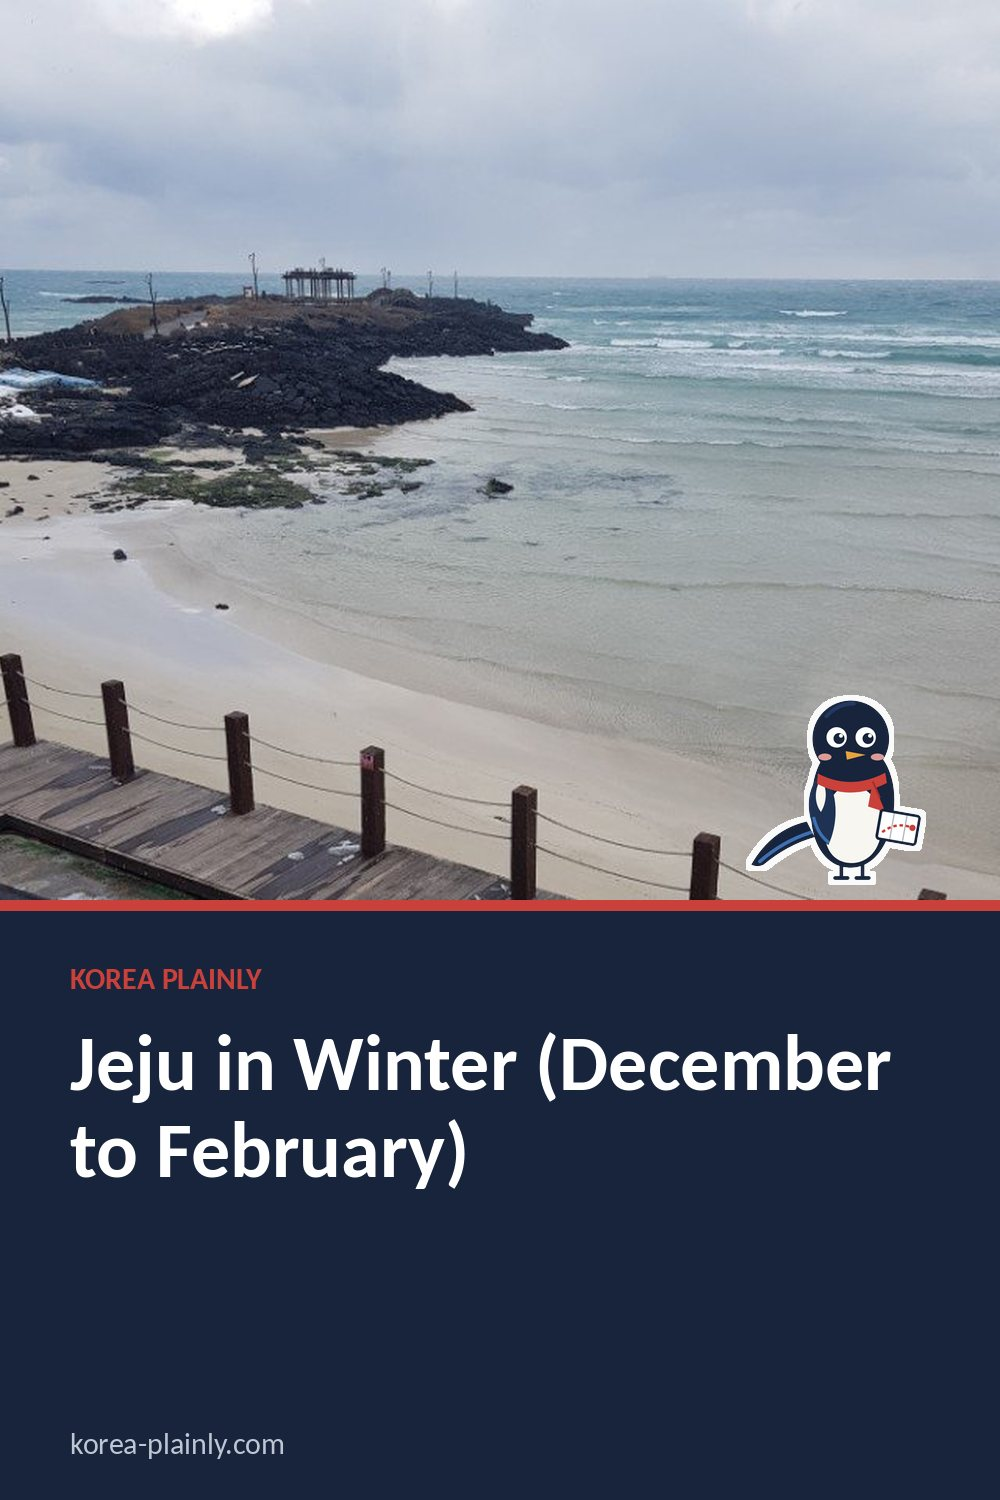
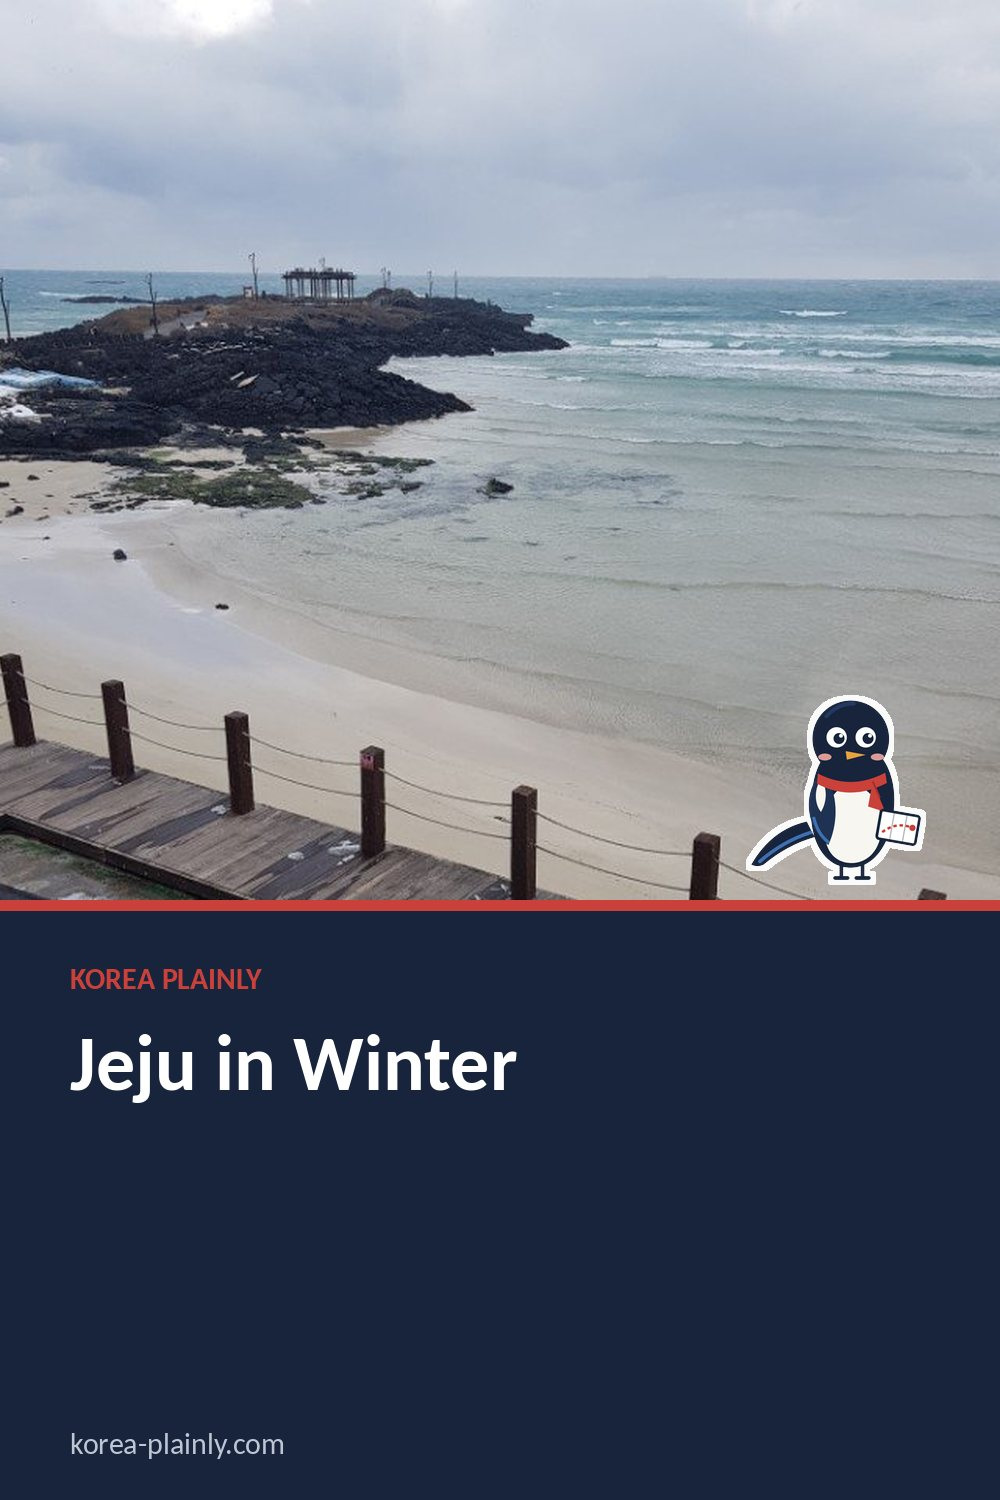
Jeju in winter: retitle for December/January/February weather, month-by-month weather (KMA 1991-2020 normals), February blossoms and Seollal 2027, FAQs
Claude-Session: https://claude.ai/code/session_01MMQnqEDa4asGH4Jb6VramN

Changed region(s): [[0.062, 0.736, 0.465, 0.7973], [0.527, 0.6747, 0.899, 0.736]]

diff --git a/jeju-in-winter.html b/jeju-in-winter.html
@@ -11,11 +11,11 @@
 >
 
 <link rel="stylesheet" href="style.css?v=20261015-1">
-<title>Jeju in Winter (December to February): Tangerines, Camellias, Snow and Tips with Kids</title>
+<title>Jeju in Winter: December, January and February Weather, Tangerines and Camellias</title>
 
 <meta
   name="description"
-  content="Jeju in December, January and February: weather and wind, tangerine picking, camellias, snowy Hallasan hikes, tips with kids, driving and flight delays."
+  content="Jeju weather in December, January and February: how mild and windy it is, plus tangerine picking, camellias, snowy Hallasan and tips with kids."
 >
 <link
   rel="canonical"
@@ -29,12 +29,12 @@
 
 <meta
   property="og:title"
-  content="Jeju in Winter (December to February): Tangerines, Camellias, Snow and Tips with Kids"
+  content="Jeju in Winter: December, January and February Weather, Tangerines and Camellias"
 >
 
 <meta
   property="og:description"
-  content="Jeju in December, January and February: weather and wind, tangerine picking, camellias, snowy Hallasan hikes, tips with kids, driving and flight delays."
+  content="Jeju weather in December, January and February: how mild and windy it is, plus tangerine picking, camellias, snowy Hallasan and tips with kids."
 >
 
 <meta
@@ -59,12 +59,12 @@
 
 <meta
   name="twitter:title"
-  content="Jeju in Winter (December to February): Tangerines, Camellias, Snow and Tips with Kids"
+  content="Jeju in Winter: December, January and February Weather, Tangerines and Camellias"
 >
 
 <meta
   name="twitter:description"
-  content="Jeju in December, January and February: weather and wind, tangerine picking, camellias, snowy Hallasan hikes, tips with kids, driving and flight delays."
+  content="Jeju weather in December, January and February: how mild and windy it is, plus tangerine picking, camellias, snowy Hallasan and tips with kids."
 >
 
 <meta
@@ -247,9 +247,9 @@ footer {
 <link rel="stylesheet" href="article.css?v=4">
 <link rel="stylesheet" href="https://fonts.googleapis.com/css2?family=DM+Sans:wght@400;500;600;700&family=Playfair+Display:ital,wght@0,600;1,600&display=swap">
 <link rel="icon" href="/favicon.svg" type="image/svg+xml">
-<script type="application/ld+json" id="kp-faq-ld">{"@context": "https://schema.org", "@type": "FAQPage", "mainEntity": [{"@type": "Question", "name": "Is Jeju worth visiting in winter?", "acceptedAnswer": {"@type": "Answer", "text": "Yes, if you like quiet coastlines, tangerine picking, camellias and snowy mountain views. Just expect wind, short days and the chance of weather delays."}}, {"@type": "Question", "name": "Is Jeju good in December with kids?", "acceptedAnswer": {"@type": "Answer", "text": "Yes, as long as you dress them for the wind and keep plans flexible. Tangerine picking, aquariums, museums and short coastal walks work well, and the island is quieter than in summer. Leave slack around flights in case of wind delays."}}, {"@type": "Question", "name": "Does it snow in Jeju?", "acceptedAnswer": {"@type": "Answer", "text": "Snow rarely settles on the coast, but Hallasan and the higher roads often have heavy snow from December to March."}}, {"@type": "Question", "name": "Do I need a reservation to hike Hallasan in winter?", "acceptedAnswer": {"@type": "Answer", "text": "At the time of writing, a free reservation is needed for the summit sections of the Seongpanak and Gwaneumsa trails. Check the official Hallasan reservation website before your trip."}}, {"@type": "Question", "name": "When is tangerine season in Jeju?", "acceptedAnswer": {"@type": "Answer", "text": "The main harvest usually runs from about November into January, with other citrus varieties later in winter."}}, {"@type": "Question", "name": "Is it safe to drive in Jeju in winter?", "acceptedAnswer": {"@type": "Answer", "text": "The coastal roads are usually fine, but mountain roads can ice over or close in snow. Ask your rental company about winter equipment, or use buses on snowy days."}}]}</script>
-<script type="application/ld+json" id="kp-article-ld">{"@context": "https://schema.org", "@type": "Article", "headline": "Jeju in Winter (December to February): Tangerines, Camellias, Snow and Tips with Kids", "description": "Jeju in December, January and February: weather and wind, tangerine picking, camellias, snowy Hallasan hikes, tips with kids, driving and flight delays.", "image": ["https://korea-plainly.com/photo-own-jeju-hamdeok-winter.jpg"], "datePublished": "2026-10-17", "dateModified": "2026-10-30", "author": {"@type": "Person", "name": "Jungsuk Kim", "url": "https://korea-plainly.com/about.html#author"}, "publisher": {"@type": "Organization", "name": "Korea Plainly", "url": "https://korea-plainly.com/"}, "mainEntityOfPage": "https://korea-plainly.com/jeju-in-winter.html"}</script>
-<script type="application/ld+json" id="kp-breadcrumb-ld">{"@context": "https://schema.org", "@type": "BreadcrumbList", "itemListElement": [{"@type": "ListItem", "position": 1, "name": "Home", "item": "https://korea-plainly.com/"}, {"@type": "ListItem", "position": 2, "name": "Guides", "item": "https://korea-plainly.com/guides.html"}, {"@type": "ListItem", "position": 3, "name": "Travel Basics", "item": "https://korea-plainly.com/guides.html?category=travel"}, {"@type": "ListItem", "position": 4, "name": "Jeju in Winter (December to February): Tangerines, Camellias, Snow and Tips with Kids", "item": "https://korea-plainly.com/jeju-in-winter.html"}]}</script>
+<script type="application/ld+json" id="kp-faq-ld">{"@context": "https://schema.org", "@type": "FAQPage", "mainEntity": [{"@type": "Question", "name": "Is Jeju worth visiting in winter?", "acceptedAnswer": {"@type": "Answer", "text": "Yes, if you like quiet coastlines, tangerine picking, camellias and snowy mountain views. Just expect wind, short days and the chance of weather delays."}}, {"@type": "Question", "name": "What is the weather like in Jeju in February?", "acceptedAnswer": {"@type": "Answer", "text": "Cool and often windy: daytime highs are typically about 10 to 12°C on the coast and nights around 4 to 5°C. Hallasan is usually still snowy, while early plum blossoms and rapeseed flowers can appear in the south and east."}}, {"@type": "Question", "name": "Is Jeju worth visiting in January?", "acceptedAnswer": {"@type": "Answer", "text": "Yes, if you want snowy Hallasan views, tangerines and quiet coastlines. It is the coldest and windiest month, with highs typically about 9 to 11°C on the coast, so pack a windproof jacket and keep plans flexible for flight delays."}}, {"@type": "Question", "name": "Is Jeju good in December with kids?", "acceptedAnswer": {"@type": "Answer", "text": "Yes, as long as you dress them for the wind and keep plans flexible. Tangerine picking, aquariums, museums and short coastal walks work well, and the island is quieter than in summer. Leave slack around flights in case of wind delays."}}, {"@type": "Question", "name": "Does it snow in Jeju?", "acceptedAnswer": {"@type": "Answer", "text": "Snow rarely settles on the coast, but Hallasan and the higher roads often have heavy snow from December to March."}}, {"@type": "Question", "name": "Do I need a reservation to hike Hallasan in winter?", "acceptedAnswer": {"@type": "Answer", "text": "At the time of writing, a free reservation is needed for the summit sections of the Seongpanak and Gwaneumsa trails. Check the official Hallasan reservation website before your trip."}}, {"@type": "Question", "name": "When is tangerine season in Jeju?", "acceptedAnswer": {"@type": "Answer", "text": "The main harvest usually runs from about November into January, with other citrus varieties later in winter."}}, {"@type": "Question", "name": "Is it safe to drive in Jeju in winter?", "acceptedAnswer": {"@type": "Answer", "text": "The coastal roads are usually fine, but mountain roads can ice over or close in snow. Ask your rental company about winter equipment, or use buses on snowy days."}}]}</script>
+<script type="application/ld+json" id="kp-article-ld">{"@context": "https://schema.org", "@type": "Article", "headline": "Jeju in Winter: December, January and February Weather, Tangerines and Camellias", "description": "Jeju weather in December, January and February: how mild and windy it is, plus tangerine picking, camellias, snowy Hallasan and tips with kids.", "image": ["https://korea-plainly.com/photo-own-jeju-hamdeok-winter.jpg"], "datePublished": "2026-10-17", "dateModified": "2026-11-10", "author": {"@type": "Person", "name": "Jungsuk Kim", "url": "https://korea-plainly.com/about.html#author"}, "publisher": {"@type": "Organization", "name": "Korea Plainly", "url": "https://korea-plainly.com/"}, "mainEntityOfPage": "https://korea-plainly.com/jeju-in-winter.html"}</script>
+<script type="application/ld+json" id="kp-breadcrumb-ld">{"@context": "https://schema.org", "@type": "BreadcrumbList", "itemListElement": [{"@type": "ListItem", "position": 1, "name": "Home", "item": "https://korea-plainly.com/"}, {"@type": "ListItem", "position": 2, "name": "Guides", "item": "https://korea-plainly.com/guides.html"}, {"@type": "ListItem", "position": 3, "name": "Travel Basics", "item": "https://korea-plainly.com/guides.html?category=travel"}, {"@type": "ListItem", "position": 4, "name": "Jeju in Winter: December, January and February Weather, Tangerines and Camellias", "item": "https://korea-plainly.com/jeju-in-winter.html"}]}</script>
 <meta property="article:published_time" content="2026-10-17">
 </head>
 
@@ -280,12 +280,12 @@ TRAVEL BASICS · SEASONAL
 </div>
 
 <h1>
-Jeju in Winter (December to February): Tangerines, Camellias, Snow and Tips with Kids
+Jeju in Winter: December, January and February Weather, Tangerines and Camellias
 </h1>
-<p class="kp-date" data-kp="date">By <a href="about.html#author">Jungsuk Kim</a>, Korea Plainly · Published <time datetime="2026-10-17">17 October 2026</time> · Updated <time datetime="2026-10-30">30 October 2026</time></p>
+<p class="kp-date" data-kp="date">By <a href="about.html#author">Jungsuk Kim</a>, Korea Plainly · Published <time datetime="2026-10-17">17 October 2026</time> · Updated <time datetime="2026-11-10">10 November 2026</time></p>
 
 <p class="dek">
-Jeju in December, January and February: weather and wind, tangerine picking, camellias, snowy Hallasan hikes, tips with kids, driving and flight delays.
+Jeju weather in December, January and February: how mild and windy it is, plus tangerine picking, camellias, snowy Hallasan and tips with kids.
 </p>
 
 <img
@@ -301,8 +301,15 @@ Jeju in December, January and February: weather and wind, tangerine picking, cam
 
 <nav class="kp-toc" data-kp="toc" aria-label="On this page"><p>On this page</p><ol><li><a href="#what-the-weather-is-like">What the weather is like</a></li><li><a href="#tangerine-season">Tangerine season</a></li><li><a href="#camellias-in-bloom">Camellias in bloom</a></li><li><a href="#snow-on-hallasan">Snow on Hallasan</a></li><li><a href="#getting-around-in-winter">Getting around in winter</a></li><li><a href="#flights-and-the-weather">Flights and the weather</a></li><li><a href="#jeju-in-december-with-kids">Jeju in December with kids</a></li><li><a href="#what-to-pack">What to pack</a></li><li><a href="#planning-your-trip">Planning your trip</a></li><li><a href="#faq">FAQ</a></li></ol></nav>
 <h2 id="what-the-weather-is-like">What the weather is like</h2>
-<p>Jeju is usually the mildest part of Korea in winter. On the coast, daytime temperatures from December to February are typically in single figures Celsius, a little above freezing at night, and snow rarely settles in Jeju City or Seogwipo. Seogwipo, on the south side of the island, is often slightly warmer than Jeju City in the north.</p>
+<p>Jeju is usually the mildest part of Korea in winter. On the coast, daytime highs from December to February are typically about 9 to 13°C, nights stay a few degrees above freezing, and snow rarely settles in Jeju City or Seogwipo. Seogwipo, on the south side of the island, is often slightly warmer than Jeju City in the north.</p>
 <p>The catch is the <strong>wind</strong>. Strong, cold winds off the sea make it feel much colder than the thermometer suggests, and it can be grey and showery for days. The higher you go, the colder it gets: the slopes of Hallasan regularly have deep snow from December into March. See our <a href="korea-weather-by-season.html">weather by season guide</a> for the rest of the country.</p>
+<p>The figures below are rough long-term averages from the Korea Meteorological Administration (1991-2020 normals) for Jeju City on the north coast and Seogwipo on the south coast. Any given week can be warmer, colder or much windier.</p>
+<h3>Jeju in December</h3>
+<p>December starts like late autumn and ends like winter. Daytime highs are typically about 11°C in Jeju City and about 13°C in Seogwipo, with nights around 5 to 6°C. The northwest wind picks up through the month, and Jeju City sees grey, showery days more often than the south side. Days are at their shortest, with only about ten hours of daylight around the solstice and sunset at roughly half past five, so plan outdoor sights for the morning and early afternoon. Snow often arrives on Hallasan during the month, while the coast usually stays clear.</p>
+<h3>Jeju in January</h3>
+<p>January is the coldest month. Highs are typically about 9°C in Jeju City and about 11°C in Seogwipo, with nights around 3 to 4°C, but strong wind can make it feel close to freezing. This is the month most likely to bring snow or sleet showers, and on a few days snow can briefly settle near the coast; the mountain roads and Hallasan trails are at their snowiest. If you want snowy Hallasan views or quiet beaches, January is a good choice; if you mainly want warm, calm weather, it is the least reliable month.</p>
+<h3>Jeju in February</h3>
+<p>February is still winter, with highs typically about 10°C in Jeju City and about 12°C in Seogwipo and nights around 4 to 5°C, but the days are noticeably longer, with sunset after six by the end of the month. Spring starts early here: plum blossoms and the first yellow rapeseed (canola) flowers can appear on the south and east sides of the island in February, depending on the year, while Hallasan keeps its snow. In 2027 Seollal (Lunar New Year) falls on 7 February, with a holiday from 6 to 9 February, so flights, rental cars and ferries to Jeju get booked up around those dates. See our <a href="seollal-travel-tips.html">Seollal travel tips</a> and <a href="korea-in-february.html">Korea in February guide</a>.</p>
 
 <figure class="kp-own" style="margin:26px auto;max-width:460px"><img src="photo-own-jeju-coast-snow.jpg" alt="Snow on the black lava rocks of the Jeju coast in winter" width="720" height="960" loading="lazy" style="width:100%;height:auto;border-radius:12px;display:block"><figcaption style="font-size:13px;color:#62635f;margin-top:6px;text-align:center">Snow on the black lava rocks of the coast, a rare sight on Jeju. Photo: Jungsuk Kim</figcaption></figure>
 <h2 id="tangerine-season">Tangerine season</h2>
@@ -359,12 +366,16 @@ Jeju in December, January and February: weather and wind, tangerine picking, cam
 <p>Pack for wind more than for deep cold: a windproof jacket, a warm mid layer, a hat, gloves and comfortable waterproof shoes. Add crampons and proper hiking boots if you plan to climb Hallasan. Convenience stores sell hand warmers. See our <a href="korea-packing-list.html">Korea packing list</a> for the full list.</p>
 
 <h2 id="planning-your-trip">Planning your trip</h2>
-<p>Our <a href="jeju-3-day-itinerary.html">3-day Jeju itinerary</a> works in winter too; just keep the Hallasan day flexible in case of snow or wind. For more seasonal ideas, see our month guides for <a href="korea-in-december.html">December</a>, <a href="korea-in-january.html">January</a> and <a href="korea-in-february.html">February</a>, and the <a href="korea-winter-travel-guide.html">winter travel guide</a> for the rest of Korea. If you are also stopping in Busan, see our <a href="busan-in-winter.html">Busan in winter guide</a>.</p>
+<p>Our <a href="jeju-3-day-itinerary.html">3-day Jeju itinerary</a> works in winter too; just keep the Hallasan day flexible in case of snow or wind. For more seasonal ideas, see our month guides for <a href="korea-in-december.html">December</a> and <a href="korea-in-january.html">January</a>, and the <a href="korea-winter-travel-guide.html">winter travel guide</a> for the rest of Korea. If you are also stopping in Busan, see our <a href="busan-in-winter.html">Busan in winter guide</a>.</p>
 
 <section class="faq">
 <h2 id="faq">FAQ</h2>
 <h3>Is Jeju worth visiting in winter?</h3>
 <p>Yes, if you like quiet coastlines, tangerine picking, camellias and snowy mountain views. Just expect wind, short days and the chance of weather delays.</p>
+<h3>What is the weather like in Jeju in February?</h3>
+<p>Cool and often windy: daytime highs are typically about 10 to 12°C on the coast and nights around 4 to 5°C. Hallasan is usually still snowy, while early plum blossoms and rapeseed flowers can appear in the south and east.</p>
+<h3>Is Jeju worth visiting in January?</h3>
+<p>Yes, if you want snowy Hallasan views, tangerines and quiet coastlines. It is the coldest and windiest month, with highs typically about 9 to 11°C on the coast, so pack a windproof jacket and keep plans flexible for flight delays.</p>
 <h3>Is Jeju good in December with kids?</h3>
 <p>Yes, as long as you dress them for the wind and keep plans flexible. Tangerine picking, aquariums, museums and short coastal walks work well, and the island is quieter than in summer. Leave slack around flights in case of wind delays.</p>
 <h3>Does it snow in Jeju?</h3>

diff --git a/guides.html b/guides.html
@@ -2194,11 +2194,11 @@ TRAVEL BASICS · NEW
 </small>
 
 <h2>
-Jeju in Winter (December to February): Tangerines, Camellias, Snow and Tips with Kids
+Jeju in Winter: December, January and February Weather, Tangerines and Camellias
 </h2>
 
 <p>
-Jeju in December, January and February: weather and wind, tangerine picking, camellias, snowy Hallasan hikes, tips with kids, driving and flight delays.
+Jeju weather in December, January and February: how mild and windy it is, plus tangerine picking, camellias, snowy Hallasan and tips with kids.
 </p>
 
 <span class="guide-arrow">
